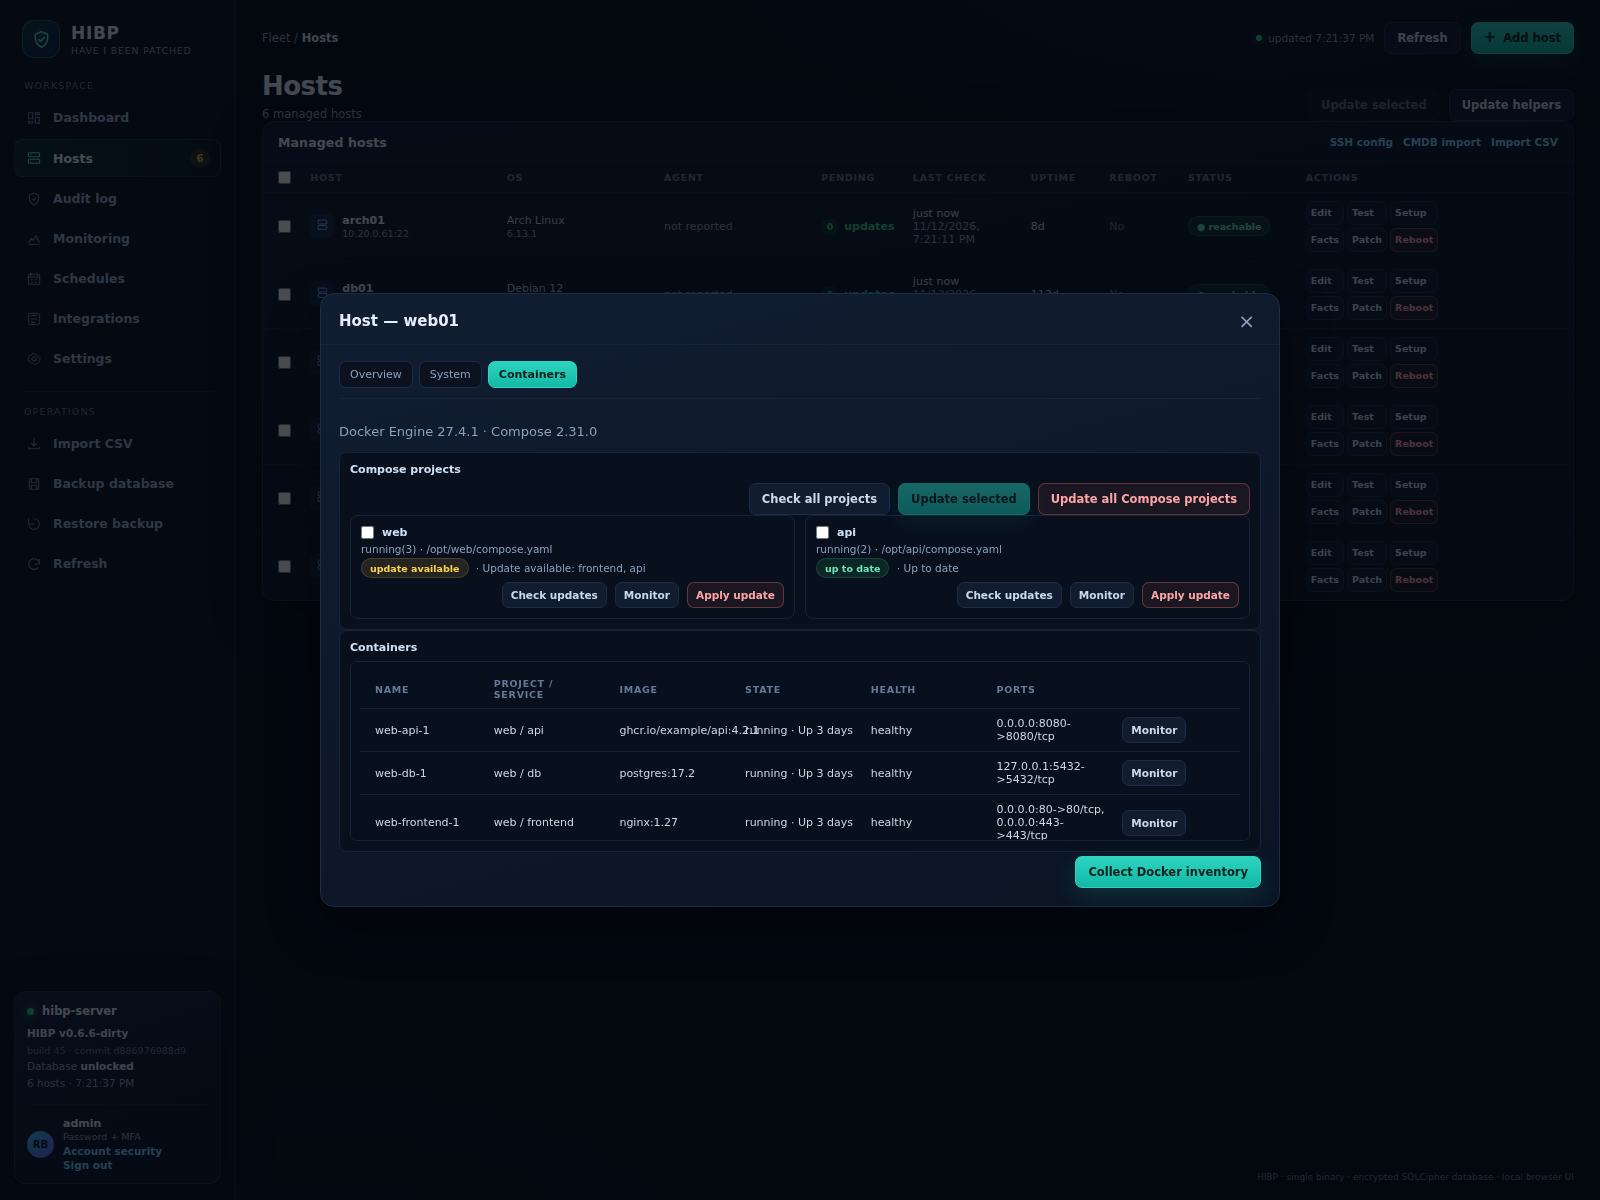
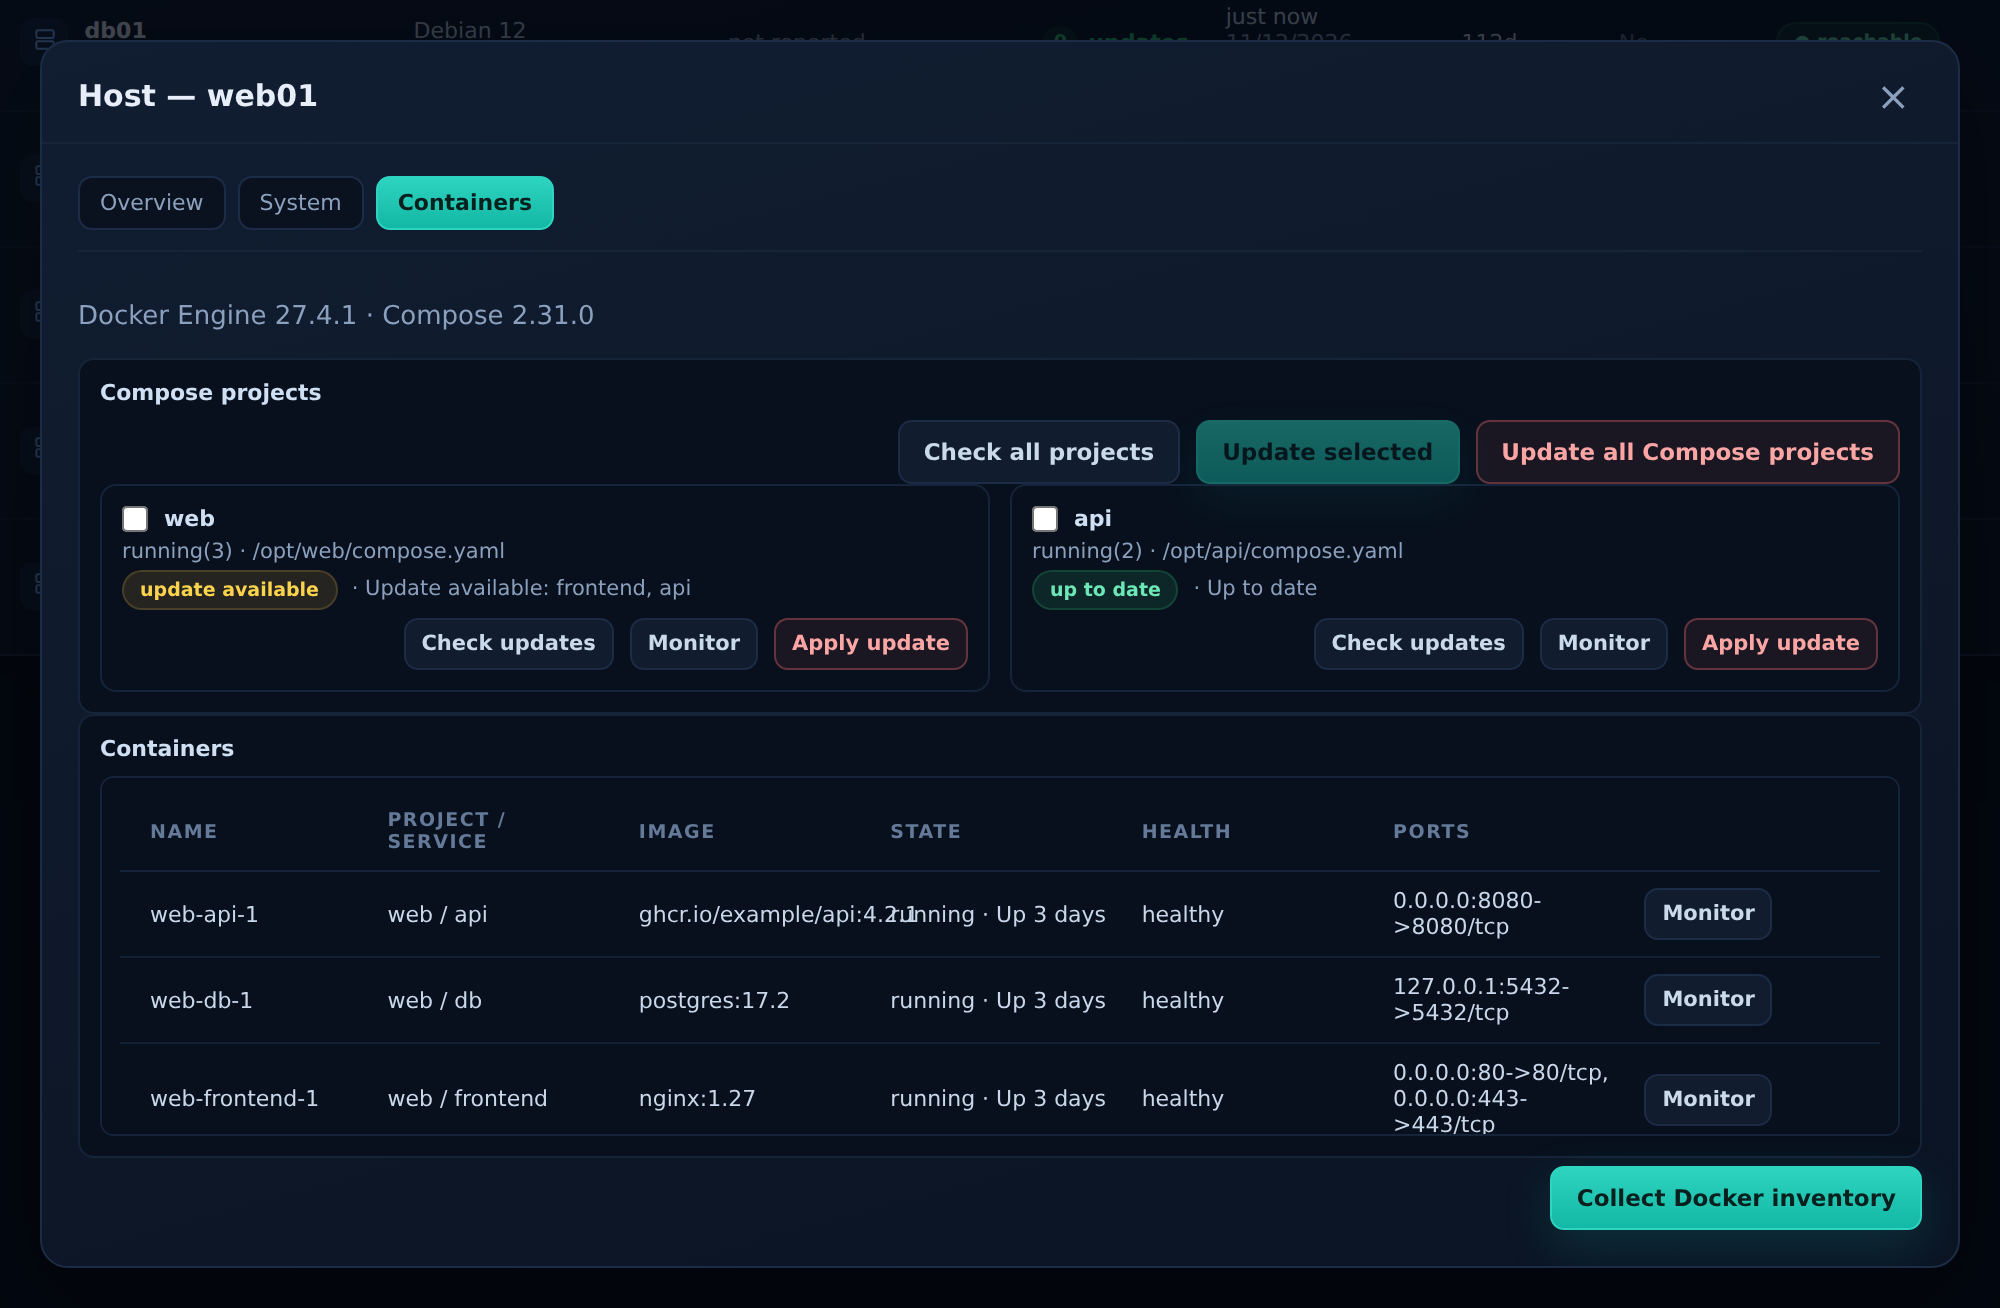
docs: add Docker update workflow screenshots

diff --git a/README.md b/README.md
@@ -1186,7 +1186,28 @@ illustrative.
 
 | Host system information | Docker containers and project actions |
 | --- | --- |
-| ![Host system information](docs/screenshots/host-details-system.png) | ![Docker containers and project actions](docs/screenshots/host-details-containers.png) |
+| ![Host system information](docs/screenshots/host-details-system.png) | ![Docker containers with project update status, Check all projects, and Update selected](docs/screenshots/host-details-containers.png) |
+
+### Docker update workflow screenshots
+
+The **+** next to `web01` in the Hosts table appears when cached Docker
+inventory is present and opens the host directly on the Containers tab:
+
+![Hosts table with a Docker + shortcut next to web01](docs/screenshots/hosts-docker-plus.png)
+
+The Containers tab shows each project's persisted update status, checkboxes for
+selection, and the **Check all projects**, **Update selected**, and **Update all
+Compose projects** actions.
+
+**Check all projects** pulls and compares every Compose project without
+restarting containers:
+
+![Check all Compose projects results with update-available and up-to-date status](docs/screenshots/docker-check-all.png)
+
+**Update selected** re-checks the chosen projects and recreates only the ones
+whose image changed:
+
+![Update selected Compose projects results with updated and no-change actions](docs/screenshots/docker-update-selected.png)
 
 ### Docker check and apply
 
